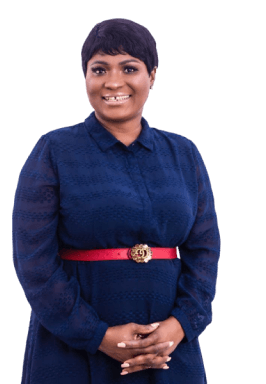
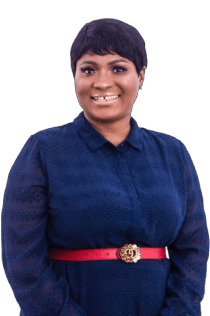
staff section redesign

diff --git a/client/src/views/SinglePost.vue b/client/src/views/SinglePost.vue
@@ -6,22 +6,22 @@
           <span class="bg-transparent h-6 text-lg font-medium inline-flex items-center py-0.5 dark:text-green-400">
             <span class="text-button-bg-hover text-lg mr-1.5">Posted on </span>
 
-            <span class="text-lg ml-1.5">{{ moment(postData.createdAt).format('LL') }}</span>
+            <span class="text-lg ml-1.5">{{ moment(postData?.createdAt).format('LL') }}</span>
           </span>
           <h1 class="text-3xl uppercase text-left font-semibold text-[#322121] w-10/12 dark:text-white">
-            {{ decodeEntities(postData.title) }}
+            {{ decodeEntities(postData?.title) }}
           </h1>
         </div>
         <div class="w-1/2">
           <article
-            class="relative single-post-image w-full h-64 bg-cover bg-center group overflow-hidden transition duration-300 ease-in-out"
-            :style="{ backgroundImage: `url(${postData.image})` }">
+            :style="{ backgroundImage: `url(${postData?.image})` }">
+            <img class="relative single-post-image w-full h-40 bg-cover bg-center group overflow-hidden transition duration-300 ease-in-out" :src="postData.image" alt="">
             <div class="relative w-full h-full px-4 sm:px-6 lg:px-4 flex justify-center items-center"></div>
           </article>
         </div>
       </div>
       <div class="mb-20 text-left">
-        <div class="text-justify font-base text-black dark:text-white" v-html="decodeEntities(postData.article)"></div>
+        <div class="text-justify font-base text-black dark:text-white" v-html="decodeEntities(postData?.article)"></div>
       </div>
 
       <div class="mb-20 text-left">
@@ -62,10 +62,10 @@
         <article class="">
           <section class="dark:text-white grid grid-cols-1 md:grid-cols-1 lg:grid-cols-3 gap-x-6 gap-y-20">
             <div class="cursor-pointer mb-20" v-for="newsItem in allNews" :key="newsItem.id">
-              <a :href="'/single-post/' + newsItem.id">
+              <a :href="'/single-post/' + newsItem?.id">
                 <article
                   class="relative w-full h-64 bg-cover bg-center group overflow-hidden transition duration-300 ease-in-out"
-                  :style="{ backgroundImage: `url(http://gema.gov.gh/images/${newsItem.image})` }">
+                  :style="{ backgroundImage: `url(${newsItem?.image})` }">
                   <div class="relative w-full h-full px-4 sm:px-6 lg:px-4 flex justify-center items-center"></div>
                 </article>
                 <div class="flex flex-col gap-3 mt-3 text-left">
@@ -74,12 +74,12 @@
                     <span class="text-[#25C200] text-base mr-1.5">Posted on
                     </span>
                     <span class="py-1 px-1.5 rounded-md bg-[#EBEEF2] text-base ml-1.5">{{
-                      moment(newsItem.createdAt).format('LL') }}</span>
+                      moment(newsItem?.createdAt).format('LL') }}</span>
                   </span>
                   <div class="hover:underline text-news-section-text dark:text-white text-lg"
-                    v-html="decodeEntities(newsItem.title?.slice(0, 80))"></div>
+                    v-html="decodeEntities(newsItem?.title?.slice(0, 80))"></div>
                   <div class="hover:underline description font-light text-gray-500 dark:text-gray-400"
-                    v-html="decodeEntities(newsItem.article?.slice(0, 80))"></div>
+                    v-html="decodeEntities(newsItem?.article?.slice(0, 80))"></div>
                 </div>
               </a>
             </div>
@@ -105,9 +105,6 @@ onMounted(() => {
 
 const route = useRoute();
 const postId = computed(() => route.params.id);
-console.log(postId.value, 'id');
-
-console.log(url + postId.value);
 
 const postData: any = ref([]);
 axios.get(`${url}/posts/${postId.value}`)
@@ -124,7 +121,7 @@ axios.get(`${url}/posts`, {
   params: {
     limit: 3,
     category: 'NEWS',
-    createdAt: { $lt: postData.value.createdAt }
+    createdAt: { $lt: postData.value?.createdAt }
   }
 })
   .then((response) => {
@@ -136,10 +133,6 @@ axios.get(`${url}/posts`, {
   });
 </script>
 <style scoped>
-* {
-  outline: 1px solid;
-}
-
 .comment:hover,
 .comment:active,
 .comment:focus {

diff --git a/client/src/views/AllNews.vue b/client/src/views/AllNews.vue
@@ -4,9 +4,9 @@
     <!-- component -->
     <section class="max-w-7xl mx-auto px-4 sm:px- mb-20 lg:px-4">
       <article class="">
-        <section class="grid grid-cols-1 md:grid-cols-1 lg:grid-cols-3 gap-x-6 gap-y-20">
+        <section v-if="!loading" class="grid grid-cols-1 md:grid-cols-1 lg:grid-cols-3 gap-x-6 gap-y-20">
           <div class="cursor-pointer" v-for="newsItem in allNews" :key="newsItem.id">
-            <router-link :to="'/single-post/' + newsItem.id" custom v-slot="{ navigate }">
+            <router-link :to="`/single-post/${newsItem.id}`" custom v-slot="{ navigate }">
               <article @click="navigate"
                 class="relative w-full h-64 bg-cover bg-center group overflow-hidden transition duration-300 ease-in-out"
                 :style="{ backgroundImage: `url(${newsItem.image})` }">
@@ -27,7 +27,7 @@
             </router-link>
           </div>
         </section>
-        <Loader class="my-52" v-if="allNews.length === 0" />
+        <Loader class="my-52" v-if="loading" />
       </article>
     </section>
     <div class="flex items-center justify-center mb-20 text-center">
@@ -35,6 +35,7 @@
         v-model="currentPage"
         :per-page="perPage"
         :total-items="count"
+        :layout="'table'"
     ></Pagination>
   </div>
     <router-view></router-view>
@@ -42,7 +43,7 @@
   <Footer />
 </template>
 <script setup lang="ts">
-import { onMounted, ref } from "vue";
+import { onMounted, ref, watch } from "vue";
 import FilterAndSearch from "@/components/FilterAndSearch.vue";
 import { Pagination } from 'flowbite-vue'
 import Footer from "@/components/Footer.vue";
@@ -50,6 +51,7 @@ import Loader from "@/components/Loader.vue";
 import { decodeEntities } from "@/functions";
 import { url } from "@/functions/endpoint";
 
+const loading = ref(false);
 const perPage = ref(12)
 const currentPage = ref(1)
 let count = ref(0)
@@ -66,25 +68,42 @@ const formattedCreatedAt = (createdAt: string): any => {
 };
 
 console.log(url);
-
 const allNews: any = ref([]);
-axios.get(`${url}/posts`, {
-  params: {
-    category: 'NEWS',
-    page: currentPage.value,
-    limit: perPage.value
-  }
-})
-  .then((response: any) => {
-    console.log(response.data);
-    allNews.value = response.data[1];
-    count.value = response.data[0].totalLength;
-  })
-  .catch((error: string) => {
-    console.error(error);
-  });
+const fetchNewsItems = () => {
+  loading.value = true; // Set loading to true before making the API request
+
+  axios
+    .get(`${url}/posts`, {
+      params: {
+        category: 'NEWS',
+        page: currentPage.value,
+        limit: perPage.value
+      }
+    })
+    .then((response: any) => {
+      allNews.value = response.data[1];
+      count.value = response.data[0].totalLength;
+    })
+    .catch((error: string) => {
+      console.error(error);
+    })
+    .finally(() => {
+      loading.value = false; // Set loading to false after the API request completes
+    });
+};
+
+// Watcher for currentPage
+watch(currentPage, fetchNewsItems);
+
+fetchNewsItems();
 </script>
-<style>
+<style scoped>
 /* * {
   outline: 1px solid;
-} */</style>
+} */
+
+.active-page {
+  background-color: blue;
+  color: white;
+}
+</style>

diff --git a/client/src/components/Staff.vue b/client/src/components/Staff.vue
@@ -12,23 +12,21 @@
           </button></router-link>
       </div>
 
-      <section class="staff-section mt-6 flex flex-wrap">
-        <div class="w-3/5 section-1">
+      <section class="staff-section mt-6 flex gap-5">
+        <div class="w-[70%] section-1">
           <h3 class="text-left text-xl font-bold mb-5">Hon. Elizabeth Kaakie Mann's First 100 Days in Office</h3>
           <div class="text-justify" v-for="paragraph  in paragraphs">
             <p class=" mb-5">{{ paragraph }}</p>
           </div>
 
         </div>
-        <div class="w-2/5 my-auto section-2">
-          <article class="relative bg-cover bg-center group overflow-hidden transition duration-300 ease-in-out">
-            <div class="staff-pic relative w-full h-full lg:px-4 flex justify-center items-end">
-              <img class="" src="../assets/background-1.png" alt="" />
-              <img class="absolute bottom-0 left-0 right-0 mx-auto" src="../assets/mce.png" alt="" />
-            </div>
-          </article>
+        <div class="bg-[#e9e9e9] w-[30%]">
+          <div class="w-full h-full my-auto mx-auto section-2">
+          <img class="w-full h-full mx-auto" src="../assets/mce.png" alt="" />
           <p class="font-bold dark:text-white mt-2 uppercase">HON. ELIZABETH KAAKIE MANN</p>
         </div>
+        </div>
+        
       </section>
     </article>
   </section>
@@ -43,13 +41,18 @@ const paragraphs = [
 ];
 </script>
 <style scoped>
+* {
+  outline: 1px solid;
+}
+
 @media (max-width: 600px) {
   .staff-section {
 
     flex-direction: column;
   }
 
-  .section-1, .section-2 {
+  .section-1,
+  .section-2 {
     width: 100%;
   }
 }

diff --git a/client/src/functions/index.ts b/client/src/functions/index.ts
@@ -15,5 +15,5 @@ export const scrollToTop = () => {
   export function decodeEntities(data: string) {
     const textarea = document.createElement('textarea');
     textarea.innerHTML = data;
-    return textarea.value;
+    return textarea.value ? textarea.value : '';
   }

diff --git a/client/tailwind.config.js b/client/tailwind.config.js
@@ -3,6 +3,7 @@ module.exports = {
   content: [
     "./index.html",
     "./src/**/*.{vue,js,ts,jsx,tsx}",
+    'node_modules/flowbite-vue/**/*.{js,jsx,ts,tsx}',
     "./node_modules/flowbite/**/*.js",
   ],
   theme: {
